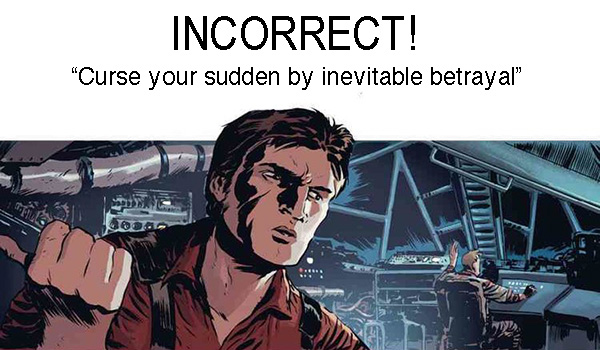
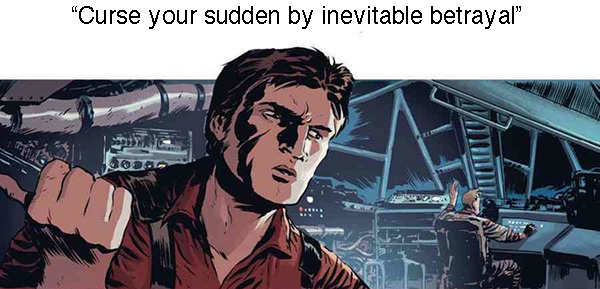
added correct answer to incorrect screen

diff --git a/index.html b/index.html
@@ -49,10 +49,13 @@
         </div>
 
         <div class="timesupScreen">
+            <h2 class="correctAnswer"></h2>
             <img class="bottomFrame" src="assets/images/timesup.jpg">
         </div>
 
         <div class="incorrectScreen">
+            <h1 class="incorrectText">INCORRECT!</h1>
+            <h2 class="correctAnswer"></h2>
             <img class="bottomFrame" src="assets/images/incorrect.jpg">
         </div>
 

diff --git a/app.js b/app.js
@@ -207,13 +207,14 @@ $(".choices").click(function() {
     }
     else {
         $(".questionContainer").hide();
+        $(".correctAnswer").html(game[questionIndex].correct);
         $(".incorrectScreen").show();
         incorrectCount++
         questionIndex++
         setTimeout(function(){
             $(".incorrectScreen").hide();
             gameStart();
-        },2000);
+        },3000);
      
     }
   });

diff --git a/assets/css/style.css b/assets/css/style.css
@@ -172,4 +172,16 @@ p{
     font-family: 'Roboto Condensed', sans-serif;
     text-align: center;
     font-size: 25px;
+    background-color: #ffffff;
+}
+
+.incorrectText{
+    text-align: center;
+    font-family: 'Montserrat', sans-serif;
+}
+
+.correctAnswer{
+    font-family: 'Roboto Condensed', sans-serif;
+    text-align: center;
+    font-size: 25px;
 }
